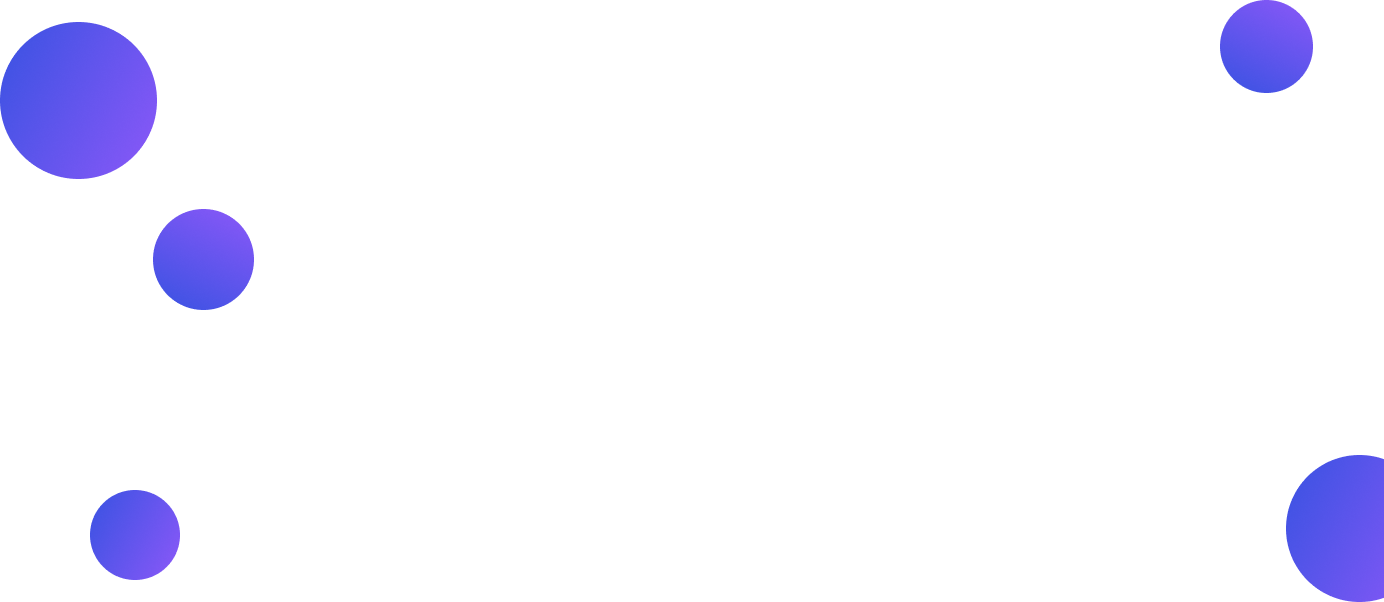
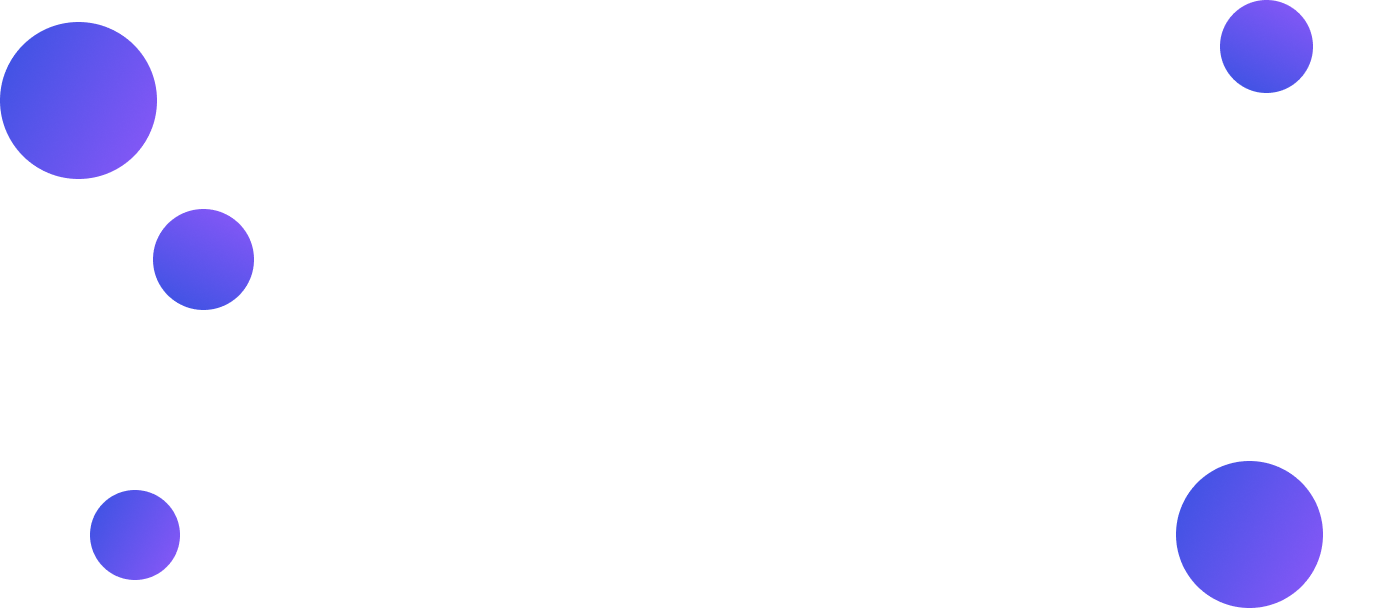
update

diff --git a/public/micciloginform.html b/public/micciloginform.html
@@ -1,7 +1,7 @@
 <!DOCTYPE html>
 <html>
 <head>
-    <title>Signup Form</title>
+    <title>Login Form</title>
     <!-- Add Bootstrap CSS -->
     <link rel="stylesheet" href="https://stackpath.bootstrapcdn.com/bootstrap/4.3.1/css/bootstrap.min.css">
     <style>
@@ -13,17 +13,9 @@
 </head>
 <body>
     <div class="container">
-        <h2 class="text-center">Signup Form</h2>
+        <h2 class="text-center">Login Form</h2>
         <div class="form-container">
             <form>
-                <div class="form-group">
-                    <label for="inputEmail"></label>
-                    <input type="email" class="form-control" id="inputEmail" placeholder="Email">
-                </div>
-                <div class="form-group">
-                    <label for="inputFullName"></label>
-                    <input type="text" class="form-control" id="inputFullName" placeholder="Full Name">
-                </div>
                 <div class="form-group">
                     <label for="inputUsername"></label>
                     <input type="text" class="form-control" id="inputUsername" placeholder="Username">
@@ -32,7 +24,7 @@
                     <label for="inputPassword"></label>
                     <input type="password" class="form-control" id="inputPassword" placeholder="Password">
                 </div>
-                <button type="submit" class="btn btn-primary btn-block">Sign up</button>
+                <button type="submit" class="btn btn-primary btn-block">Log in</button>
             </form>
         </div>
     </div>

diff --git a/public/css/miccitest.css b/public/css/miccitest.css
@@ -25,8 +25,8 @@
   }
 
 
-  .image-container-full-width {
-    position: relative;
+  .image-container {
+      margin-left: 130px;
   }
   
   .image-container img {
